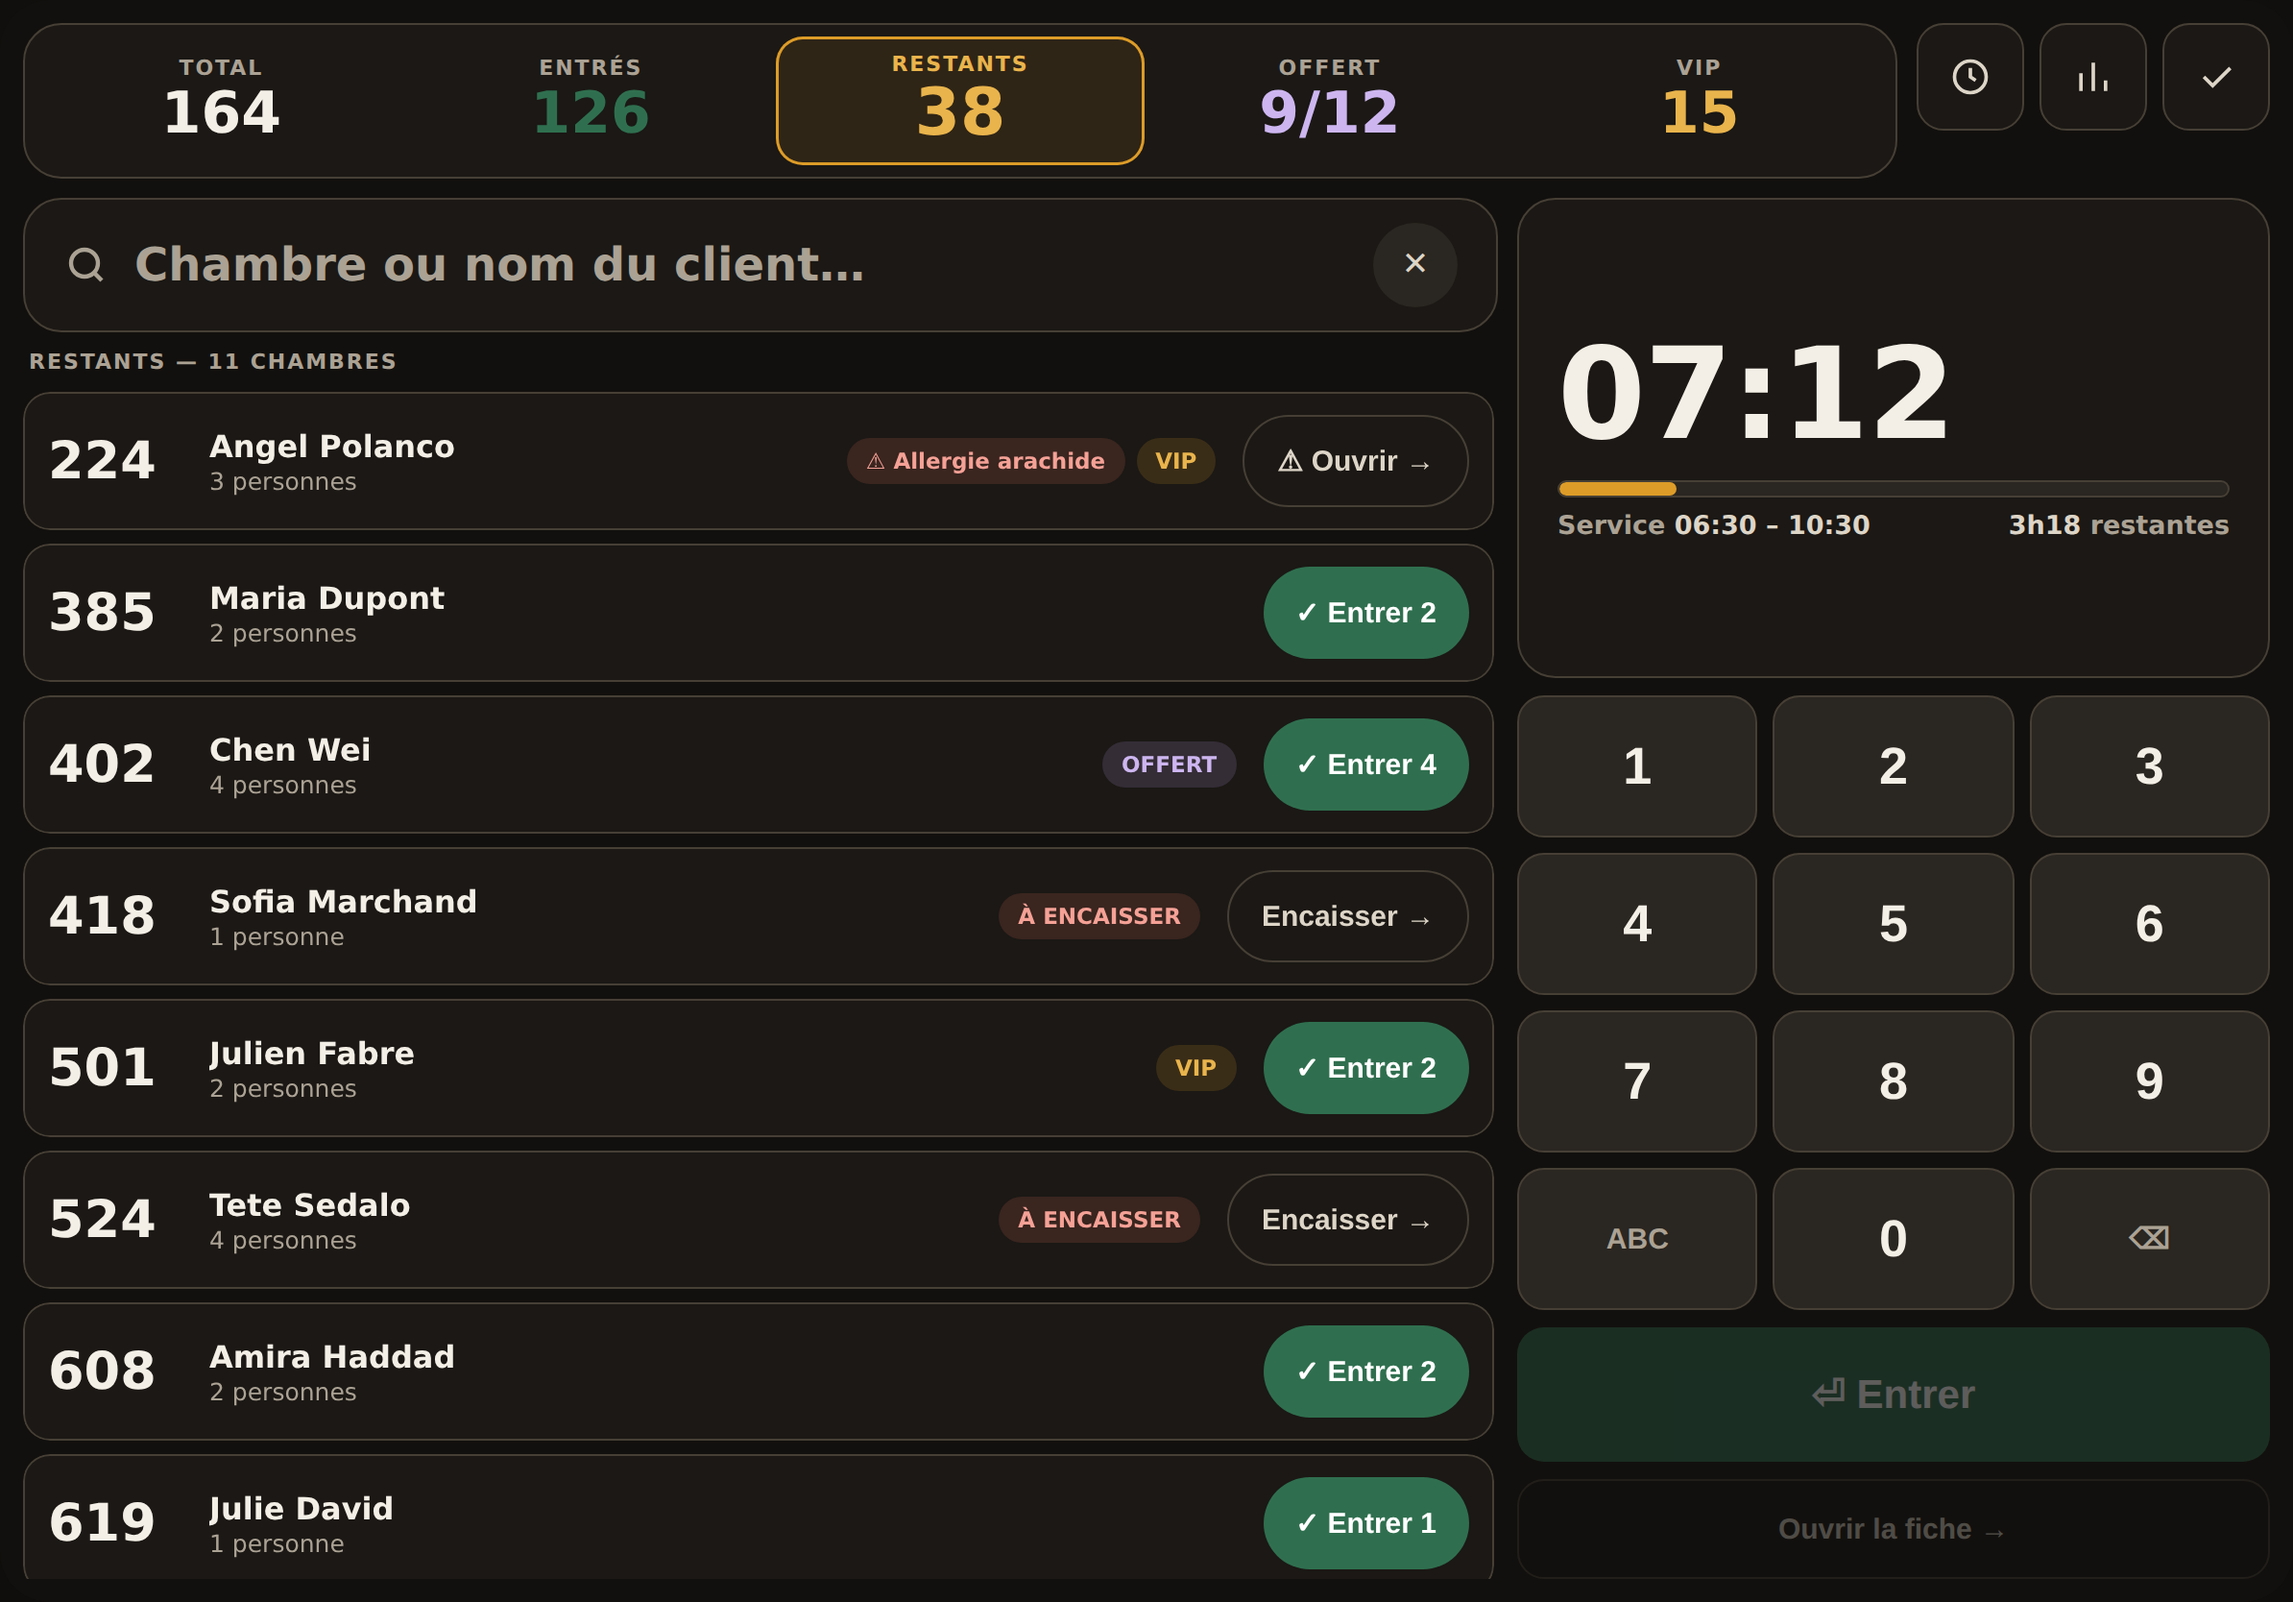
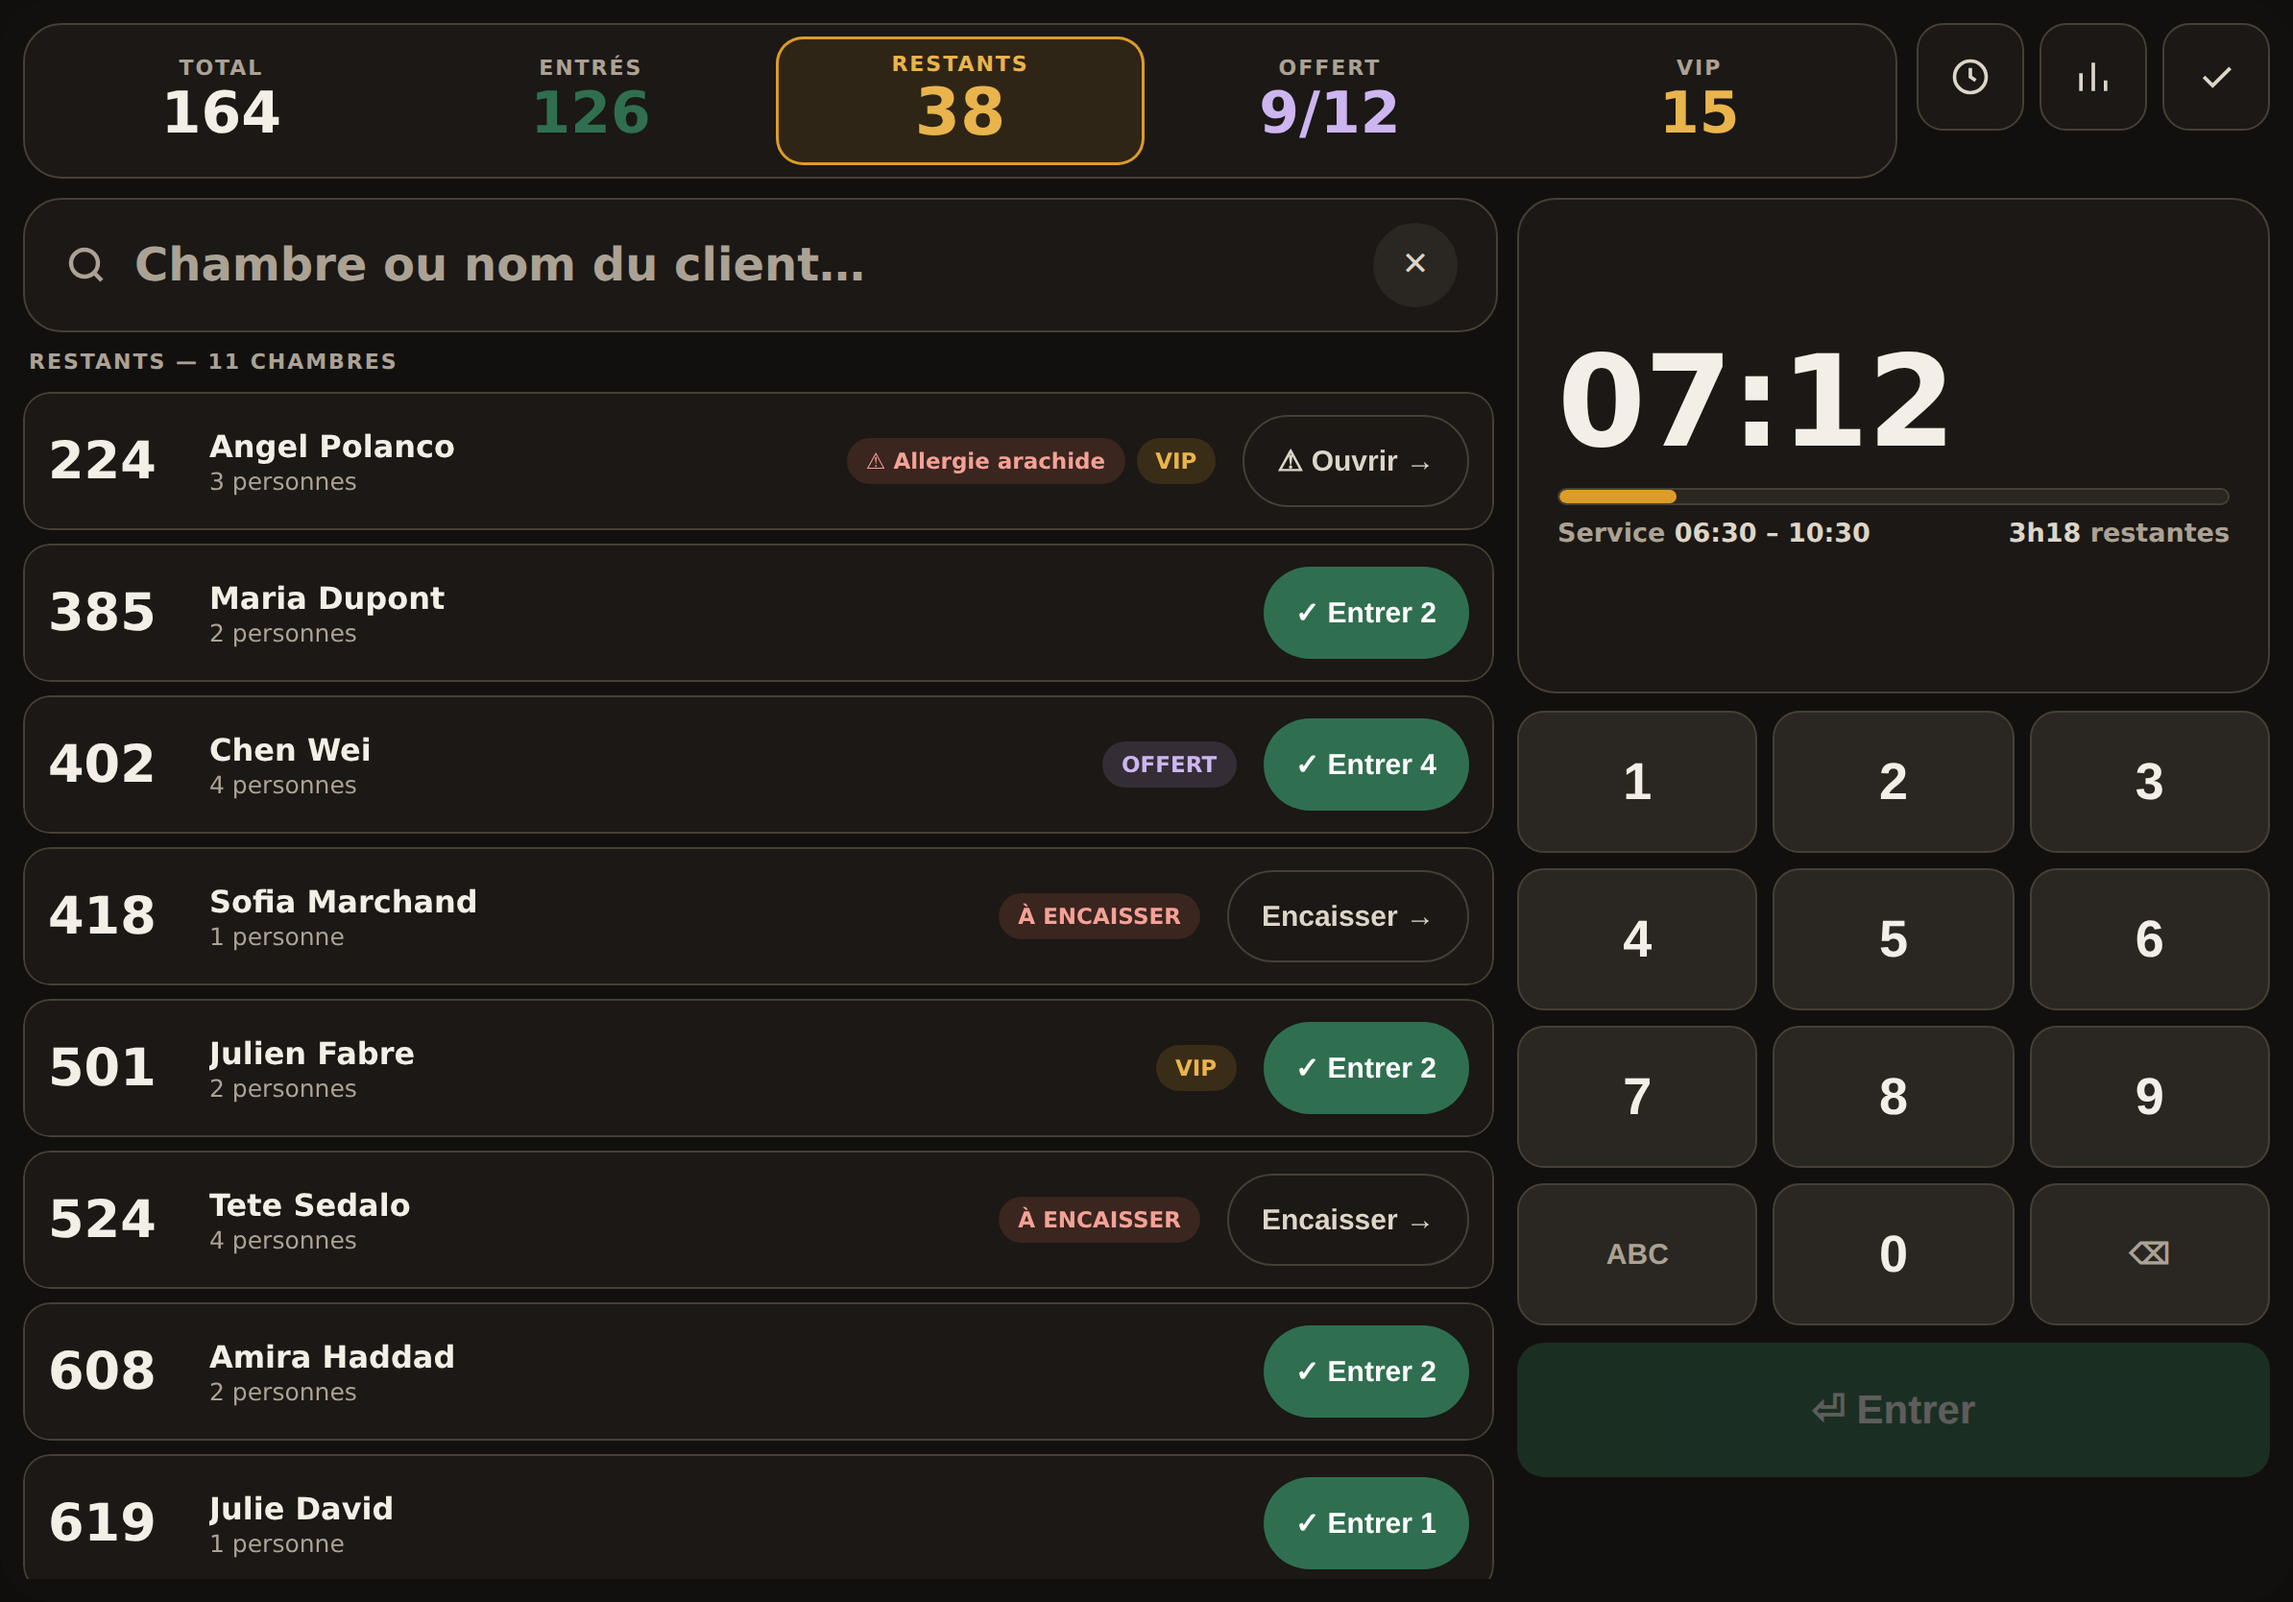
Search v2: one CTA slot, ABC raises the native keyboard, accent-folding
The bottom of the keypad column is a single primary slot that never
moves; what it commits to changes with the guest (Entrer, or Ouvrir la
fiche when there is an alert or a bill), and the other exit drops to a
quiet text link. Two full-width slabs competed for the glance at exactly
the moment of commitment. No search button: the list already filters as
you type, and a control that visibly does nothing costs trust.

ABC now focuses the field, which raises the tablet's own keyboard. The
existing AlphaKeypad is QWERTY and works today only because the search
page is full width — in a 392px column, ten keys at 44px need 494px. It
also has no è/ç/ü, which makes half a French guest list untypeable.

That surfaced a real matching bug: search folds accents now, so
'lefevre' finds 'Lefèvre'. Verified both directions.

The software keyboard covers the bottom of a landscape iPad, which is
where the CTA is pinned — visualViewport now shrinks the frame so the
button stays reachable instead of recreating the original R1 bug.

Claude-Session: https://claude.ai/code/session_01PvjN1yrwGssKpuvjG4vcfR

diff --git a/mockups/search-v2.html b/mockups/search-v2.html
@@ -185,10 +185,11 @@
   .b-first{background:rgba(221,156,40,.16);color:var(--gold-ink)}
   .b-freq{background:rgba(47,111,79,.20);color:var(--good-ink)}
 
-  .secondary{min-height:52px;border-radius:var(--r-md);background:transparent;
-    border:1.5px solid var(--key-edge);color:var(--ink-2);font-size:15px;font-weight:800;
-    cursor:pointer;display:flex;align-items:center;justify-content:center;gap:8px}
-  .secondary[disabled]{opacity:.3;cursor:default}
+  .secondary{min-height:44px;border:none;background:none;color:var(--muted);
+    font-size:14px;font-weight:700;cursor:pointer;display:flex;align-items:center;
+    justify-content:center;gap:7px;text-decoration:underline;text-underline-offset:3px}
+  .secondary[disabled]{opacity:0;pointer-events:none}
+  .enter{min-height:78px;font-size:23px}
 
   .pad{display:grid;grid-template-columns:repeat(3,1fr);gap:8px}
   .k{height:74px;border-radius:var(--r-md);background:var(--key);
@@ -293,18 +294,19 @@ document.addEventListener("keydown", e=>{
 });
 function press(k){
   if(k==="⌫") typed = typed.slice(0,-1);
-  else if(k==="ABC"){ /* alpha mode — out of scope for the mockup */ }
+  else if(k==="ABC"){ el("q").focus(); return; }
   else if(typed.length<12) typed += k;
   el("q").value = typed;
   render();
 }
 
 const isNum = (q)=>/^\d+$/.test(q);
+const fold = (s)=>s.normalize("NFD").replace(/[\u0300-\u036f]/g,"").toLowerCase();
 function match(){
   const q = typed.trim().toLowerCase();
   if(!q) return ROOMS;
   return isNum(q) ? ROOMS.filter(x=>x.r.startsWith(q))
-                  : ROOMS.filter(x=>x.n.toLowerCase().includes(q));
+                  : ROOMS.filter(x=>fold(x.n).includes(fold(q)));
 }
 /* A "hit" is an unambiguous target: the exact room, or the only name left. */
 function exact(){
@@ -379,20 +381,21 @@ var render = function(){
   if(hit){
     // A guest who needs money taken, or carries an alert, must not be
     // waved through with one tap — the fiche is the primary action there.
+    // The primary slot never moves; only what it commits to changes.
     const mustOpen = !!(hit.alert || hit.pay);
-    enter.innerHTML = mustOpen ? `⏎ Entrer quand même` : `⏎ Entrer &nbsp;<b>${hit.p}</b>`;
-    enter.style.background = mustOpen ? "transparent" : "";
-    enter.style.border     = mustOpen ? "1.5px solid var(--key-edge)" : "";
-    enter.style.color      = mustOpen ? "var(--ink-2)" : "";
-    open.style.background  = mustOpen ? "var(--good)" : "";
-    open.style.color       = mustOpen ? "#fff" : "";
-    open.style.border      = mustOpen ? "none" : "";
-    open.innerHTML = mustOpen
-      ? (hit.alert ? `⚠ Ouvrir la fiche →` : `Encaisser · ouvrir →`)
-      : `Ouvrir la fiche →`;
+    if(mustOpen){
+      enter.innerHTML = hit.alert ? `⚠ Ouvrir la fiche →` : `Encaisser · ouvrir →`;
+      enter.onclick = ()=> alert("→ fiche client (maquette)");
+      open.innerHTML = `Entrer quand même (${hit.p})`;
+      open.onclick = doEnter;
+    } else {
+      enter.innerHTML = `⏎ Entrer &nbsp;<b>${hit.p}</b>`;
+      enter.onclick = doEnter;
+      open.innerHTML = `Ouvrir la fiche →`;
+      open.onclick = ()=> alert("→ fiche client (maquette)");
+    }
   } else {
     enter.innerHTML = `⏎ Entrer`;
-    enter.style.cssText = ""; open.style.cssText = "";
     open.innerHTML = `Ouvrir la fiche →`;
   }
 
@@ -516,8 +519,7 @@ function toast(msg, undo){
   toastT = setTimeout(()=>t.remove(), 4200);
 }
 
-el("enter").addEventListener("click", doEnter);
-el("openfile").addEventListener("click", ()=>{ if(exact()) alert("→ fiche client (maquette)"); });
+
 setInterval(()=>{ clockM=(clockM+1)%60; if(clockM===0) clockH=(clockH+1)%24; if(!typed) render(); }, 60000);
 
 /* handedness mirror */
@@ -527,6 +529,18 @@ new MutationObserver(()=>{
 }).observe(document.body,{attributes:true,attributeFilter:["class"]});
 
 render();
+
+/* Keep the pinned CTA above the software keyboard. Without this the keyboard
+   covers the bottom of a landscape iPad and re-creates the original bug:
+   a primary action you cannot reach. */
+if(window.visualViewport){
+  const fit = ()=>{
+    const f = document.getElementById("frame");
+    const vh = window.visualViewport.height;
+    f.style.height = Math.min(834, vh - 36) + "px";
+  };
+  window.visualViewport.addEventListener("resize", fit);
+}
 </script>
 </body>
 </html>
